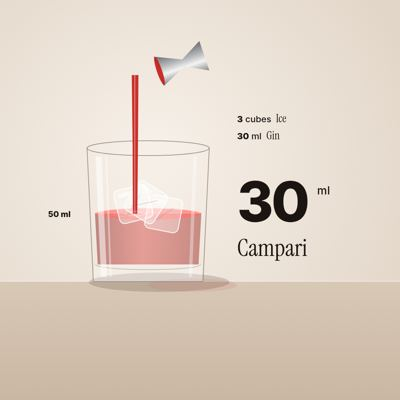
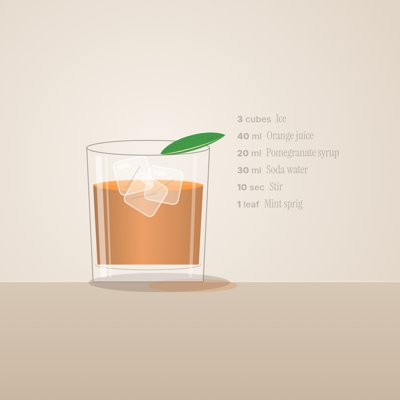
Motion elements batch 4 part 2: groups and hints for 6 more; invented defaults for the timeline and drink recipe
Claude-Session: https://claude.ai/code/session_01P9QQ1ksSfAx6b9HF7mrN8g

diff --git a/studiomania/library/motion/r/027/reel.html b/studiomania/library/motion/r/027/reel.html
@@ -2,23 +2,15 @@
 <script>
 // #27 (عنصر: خط زمني) Editorial timeline, any events. One typeface (Inter). The camera travels along one line;
 // each moment has the same rhythm: year lands (hit) → event → why it mattered. Illustrations are drawn in code.
+const G1 = "١ · العنوان", G2 = "٢ · المحطات", G3 = "٣ · النهاية", GC = "الألوان";
 const PR = M.params({
-  title: { label: "العنوان", kind: "text", def: "75 years of AI" },
-  subtitle: { label: "تحت العنوان", kind: "text", def: "in thirteen moments that changed its course." },
-  events: { label: "المحطات (كل سطر: السنة | الحدث | ليه مهم)", kind: "lines", def: [
-    "1950 | Alan Turing publishes “Computing Machinery and Intelligence” | It reframed “can machines think?” as a test you could actually run.",
-    "1956 | The Dartmouth workshop names the field “artificial intelligence” | AI became a research discipline with a name, a goal and funding.",
-    "1958 | Frank Rosenblatt builds the Perceptron | The first machine that learned from examples instead of rules.",
-    "1986 | Rumelhart, Hinton and Williams popularise backpropagation | Multi-layer networks could finally be trained.",
-    "1997 | IBM's Deep Blue beats Garry Kasparov at chess | A machine beat the world champion under tournament conditions.",
-    "2012 | AlexNet wins the ImageNet challenge | GPUs + data + deep nets: the start of the deep-learning boom.",
-    "2017 | Google researchers introduce the Transformer | “Attention Is All You Need” — the architecture behind today's models.",
-    "2022 | ChatGPT launches to the public | AI went from labs to a hundred million people in about two months.",
-    "2025 | Models see, speak, write code and act as agents | AI is now a tool people use every day — and the questions are bigger."] },
-  ending: { label: "الجملة في الآخر", kind: "text", def: "And it's still being written." },
-  ink: { label: "لون الكلام", kind: "color", role: "ink", def: "#111214" },
-  accent: { label: "اللون المميز", kind: "color", role: "accent", def: "#2f5cff" },
-  bg: { label: "الخلفية", kind: "color", role: "bg", def: "#f4f2ed" },
+  title: { label: "العنوان", kind: "text", def: "حكاية ٤٠ سنة", group: G1, max: 26 },
+  subtitle: { label: "تحت العنوان", kind: "text", def: "في ٦ محطات غيّرت كل حاجة.", group: G1, max: 50 },
+  events: { label: "المحطات (كل سطر: السنة | الحدث | ليه مهم)", kind: "lines", def: ["١٩٨٥ | فتحنا أول فرن في شارع صغير | كان فرن واحد وعيلة واحدة وحلم كبير.", "١٩٩٦ | أول فرع تاني في الحي اللي جنبنا | الناس بقت تيجي من بعيد علشان الرغيف.", "٢٠٠٤ | ابتدينا نعمل حلويات الأعياد | السفرة بقت تستنانا في كل موسم.", "٢٠١٣ | فتحنا ورشة تدريب للخبازين | الصنعة بقت تتعلم بدل ما تضيع.", "٢٠٢٠ | التوصيل لحد البيت | الرغيف السخن بقى يوصل في ٢٠ دقيقة.", "٢٠٢٥ | ١٢ فرع ونفس الوصفة | كبرنا… والطعم زي ما هو."], group: G2, max: 120, hint: "كل سطر: السنة | اللي حصل | ليه كان مهم. لحد ١٤ محطة، والفيديو بيطول مع عددهم." },
+  ending: { label: "الجملة في الآخر", kind: "text", def: "والحكاية لسه بتتكتب.", group: G3, max: 40 },
+  ink: { label: "لون الكلام", kind: "color", role: "ink", def: "#111214", group: GC },
+  accent: { label: "اللون المميز", kind: "color", role: "accent", def: "#2f5cff", group: GC, hint: "لون السنة والرسومات المميزة." },
+  bg: { label: "الخلفية", kind: "color", role: "bg", def: "#f4f2ed", group: GC },
 });
 const ARTS = ["perceptron", "backprop", "imagenet", "transformer", "chat", "now", "dartmouth", "winter"];
 const MOM = PR.events.slice(0, 14).map((l, i) => { const [y = "", w = "", why = ""] = String(l).split("|").map((z) => z.trim()); return [y, w, why, ARTS[i % ARTS.length]]; });
@@ -26,6 +18,11 @@ if (!MOM.length) MOM.push(["", "", "", "now"]);
 const RTL = M.isAr(PR.title + MOM.map((m) => m[1]).join(""));
 const HOOK = 5, PER = MOM.length > 8 ? 7 : 7.6, SPACE = 1500, INK = PR.ink, PAPER = PR.bg, ACC = PR.accent, MUTE = "#8b8a86";
 const DUR = HOOK + MOM.length * PER + 4.8;
+M.meta({
+  story: "خط زمني تحريري: الكاميرا ماشية على خط واحد، وكل محطة ليها نفس الإيقاع: السنة بتخبط ← اللي حصل ← ليه كان مهم، مع رسمة صغيرة بالكود. بيمشي من اليمين للعربي ومن الشمال للإنجليزي.",
+  scenes: [{ name: G1, t0: 0, t1: HOOK, about: "العنوان" }, { name: G2, t0: HOOK, t1: DUR - 4.8, about: "المحطات واحدة ورا التانية" }, { name: G3, t0: DUR - 4.8, t1: DUR, about: "الجملة الأخيرة" }],
+  tips: ["مناسب لحكاية البراند وتاريخ الشركة وإنجازات السنة.", "كل محطة جملة قصيرة + ليه كانت مهمة.", "من ٤ لـ ٨ محطات بيبقى طول مريح."],
+});
 M.reel({
   W: 1920, H: 1080, DUR, bg: PAPER,
   fonts: { I4: ["inter400.ttf", "400"], I6: ["inter600.ttf", "600"], I8: ["inter800.ttf", "800"] },

diff --git a/studiomania/library/motion/r/009/reel.html b/studiomania/library/motion/r/009/reel.html
@@ -1,17 +1,23 @@
 <!doctype html><html><head><meta charset="utf-8"><script src="../../lib/core.js"></script></head><body>
 <script>
-// #9 (عنصر: وصفة مشروب خطوة بخطوة) Drink recipe — 30 s, 100 BPM, 1080×1080. Gin 30 ml, Campari 30 ml, sweet vermouth 30 ml, ice, stir, orange peel.
+// #9 (عنصر: وصفة مشروب خطوة بخطوة) Drink recipe — 30 s, 100 BPM, 1080×1080. Three liquids poured in proportion, ice, stir, garnish.
 const BPM = 100, B = 60 / BPM, BAR = B * 4;
+const G1 = "١ · الاسم", G2 = "٢ · المكونات", G3 = "٣ · التقليب والزينة", GC = "الألوان";
 const PR = M.params({
-  title: { label: "اسم المشروب", kind: "text", role: "product", def: "Negroni" },
-  sub: { label: "سطر تحت الاسم", kind: "text", def: "Equal parts · stirred · on the rocks" },
-  subEnd: { label: "السطر في الآخر", kind: "text", def: "Gin · Campari · Sweet vermouth — 1 : 1 : 1" },
-  ice: { label: "التلج (الاسم | الكمية | الوحدة)", kind: "text", def: "Ice | 3 | cubes" },
-  liquids: { label: "٣ سوايل (الاسم | الكمية | الوحدة | اللون | الشفافية 0-1)", kind: "lines", def: ["Gin | 30 | ml | #ecf0ec | .22", "Campari | 30 | ml | #c41c16 | .9", "Sweet vermouth | 30 | ml | #6e1e0c | .92"] },
-  stir: { label: "التقليب (الاسم | الكمية | الوحدة)", kind: "text", def: "Stir | 20 | sec" },
-  garnish: { label: "الزينة (الاسم | الكمية | الوحدة)", kind: "text", def: "Orange peel | 1 | twist" },
-  garnishColor: { label: "لون الزينة", kind: "color", def: "#f28a1e" },
-  unit: { label: "وحدة القياس جنب الكوباية", kind: "text", def: "ml" },
+  title: { label: "اسم المشروب", kind: "text", role: "product", def: "Sunset Fizz", group: G1, max: 14 },
+  sub: { label: "سطر تحت الاسم", kind: "text", def: "Fresh · bubbly · over ice", group: G1, max: 40 },
+  subEnd: { label: "السطر في الآخر", kind: "text", def: "Orange · Pomegranate · Soda — 2 : 1 : 1", group: G3, max: 50 },
+  ice: { label: "التلج (الاسم | الكمية | الوحدة)", kind: "text", def: "Ice | 3 | cubes", group: G2, max: 24, hint: "الاسم | الكمية | الوحدة." },
+  liquids: { label: "٣ سوايل (الاسم | الكمية | الوحدة | اللون | الشفافية 0-1)", kind: "lines", def: ["Orange juice | 40 | ml | #f6a21a | .9", "Pomegranate syrup | 20 | ml | #b0122e | .95", "Soda water | 30 | ml | #e8f2f4 | .2"], group: G2, max: 40, hint: "٣ سوايل: الاسم | الكمية | الوحدة | اللون | الشفافية (0 لـ 1). الكوباية بتتملي بنسبتهم." },
+  stir: { label: "التقليب (الاسم | الكمية | الوحدة)", kind: "text", def: "Stir | 10 | sec", group: G3, max: 24 },
+  garnish: { label: "الزينة (الاسم | الكمية | الوحدة)", kind: "text", def: "Mint sprig | 1 | leaf", group: G3, max: 28 },
+  garnishColor: { label: "لون الزينة", kind: "color", def: "#3f9b4a", group: GC },
+  unit: { label: "وحدة القياس جنب الكوباية", kind: "text", def: "ml", group: G2, max: 4 },
+});
+M.meta({
+  story: "وصفة مشروب خطوة بخطوة على الإيقاع: التلج بيقع، وكل سايل بيتصب بلونه ونصيبه في الكوباية، وبعدين التقليب والزينة، والوصفة كلها في سطر في الآخر.",
+  scenes: [{ name: G1, t0: 0, t1: 2.4, about: "اسم المشروب" }, { name: G2, t0: 2.4, t1: 19.2, about: "التلج والسوايل" }, { name: G3, t0: 19.2, t1: 30, about: "التقليب والزينة والوصفة" }],
+  tips: ["مناسب للكافيهات ومحلات العصير والمشروبات.", "الكميات أرقام علشان الكوباية تتملي صح.", "لون كل سايل بيفرق: خليه قريب من الحقيقة."],
 });
 const esc = (v) => String(v ?? "").replace(/[&<>"]/g, (c) => ({ "&": "&amp;", "<": "&lt;", ">": "&gt;", '"': "&quot;" })[c]);
 const part = (l) => String(l || "").split("|").map((z) => z.trim());
@@ -19,7 +25,7 @@ const hex = (h, a) => { const m = String(h || "").replace("#", ""); const n = pa
 const st = (l, t0, t1, extra = {}) => { const [name = "", amt = "", unit = ""] = part(l); return { name, amt, unit, t0, t1, ...extra }; };
 const STEPS = [
   st(PR.ice, BAR * 1, BAR * 2),
-  ...[0, 1, 2].map((i) => { const [n, a, u, c, o] = part(PR.liquids[i]); const v = parseFloat(a) || 30; return st(`${n || ""} | ${a || ""} | ${u || ""}`, BAR * (2 + i * 2), BAR * (4 + i * 2), { col: hex(c || "#cccccc", Math.max(.05, Math.min(1, parseFloat(o) || .85))), vol: v }); }),
+  ...[0, 1, 2].map((i) => { const [n, a, u, c, o] = part(PR.liquids[i]); const v = parseFloat(String(a || "").replace(/[٠-٩]/g, (d) => "٠١٢٣٤٥٦٧٨٩".indexOf(d))) || 30; return st(`${n || ""} | ${a || ""} | ${u || ""}`, BAR * (2 + i * 2), BAR * (4 + i * 2), { col: hex(c || "#cccccc", Math.max(.05, Math.min(1, parseFloat(o) || .85))), vol: v }); }),
   st(PR.stir, BAR * 8, BAR * 10),
   st(PR.garnish, BAR * 10, BAR * 11),
 ];

diff --git a/studiomania/library/motion/r/065/reel.html b/studiomania/library/motion/r/065/reel.html
@@ -5,20 +5,26 @@
 // 4–6 the red circle pushes through the border and morphs (circle → square → star) · 6–8 the poster peels off the wall in 3D, its back is the event info
 // 8–10 data/UI: the info builds as a table/timeline · 10–12 the grid modules start to slide out · 12–14 strongest: every module flies out on the beat
 // 14–15 end title "OUT OF FRAME" → modules snap back: the still poster of frame one.
+const G1 = "١ · البوستر", G2 = "٢ · معلومات الحدث", G3 = "٣ · النهاية", GC = "الألوان";
 const PR = M.params({
-  header: { label: "اسم الحدث فوق البوستر", kind: "text", role: "brand", def: "POSTER CLUB" },
-  issue: { label: "الرقم جنبه", kind: "text", def: "NO. 07" },
-  big: { label: "الكلمة الكبيرة (بتخرج من البرواز)", kind: "text", def: "BREAK" },
-  info: { label: "معلومات الحدث (٣ سطور: العنوان | القيمة)", kind: "lines", def: ["WHAT | Poster Club", "WHEN | Fri 20:00", "WHERE | Hall 3"] },
-  seatsLabel: { label: "عنوان العدد", kind: "text", def: "SEATS" },
-  seats: { label: "المحجوز", kind: "text", def: "240" },
-  total: { label: "من", kind: "text", def: "300" },
-  end1: { label: "النهاية (سطر ١)", kind: "text", def: "OUT OF" },
-  end2: { label: "النهاية (سطر ٢، ملوّن)", kind: "text", def: "FRAME." },
-  cream: { label: "لون البوستر", kind: "color", role: "bg", def: "#f1ebde" },
-  red: { label: "اللون المميز", kind: "color", role: "accent", def: "#e2321f" },
-  ink: { label: "لون الكلام", kind: "color", role: "ink", def: "#121212" },
-  wall: { label: "الحيطة", kind: "color", role: "dark", def: "#2a2a2c" },
+  header: { label: "اسم الحدث فوق البوستر", kind: "text", role: "brand", def: "POSTER CLUB", group: G1, max: 18 },
+  issue: { label: "الرقم جنبه", kind: "text", def: "NO. 07", group: G1, max: 8 },
+  big: { label: "الكلمة الكبيرة (بتخرج من البرواز)", kind: "text", def: "BREAK", group: G1, max: 7, hint: "كلمة واحدة كبيرة: حروفها بتخرج من البرواز." },
+  info: { label: "معلومات الحدث (٣ سطور: العنوان | القيمة)", kind: "lines", def: ["WHAT | Poster Club", "WHEN | Fri 20:00", "WHERE | Hall 3"], group: G2, max: 24, hint: "٣ سطور: العنوان | القيمة (إيه، إمتى، فين)." },
+  seatsLabel: { label: "عنوان العدد", kind: "text", def: "SEATS", group: G2, max: 10 },
+  seats: { label: "المحجوز", kind: "text", def: "240", group: G2, max: 5 },
+  total: { label: "من", kind: "text", def: "300", group: G2, max: 5 },
+  end1: { label: "النهاية (سطر ١)", kind: "text", def: "OUT OF", group: G3, max: 8 },
+  end2: { label: "النهاية (سطر ٢، ملوّن)", kind: "text", def: "FRAME.", group: G3, max: 8 },
+  cream: { label: "لون البوستر", kind: "color", role: "bg", def: "#f1ebde", group: GC },
+  red: { label: "اللون المميز", kind: "color", role: "accent", def: "#e2321f", group: GC },
+  ink: { label: "لون الكلام", kind: "color", role: "ink", def: "#121212", group: GC },
+  wall: { label: "الحيطة", kind: "color", role: "dark", def: "#2a2a2c", group: GC },
+});
+M.meta({
+  story: "بوستر حدث بيكسر البرواز: بوستر سويسري ثابت، حروفه بتطلع برّه الإطار، والدايرة الحمرا بتزق الحافة وتتحول أشكال، والبوستر بيتقشر من الحيطة 3D وضهره فيه معلومات الحدث، والموديولات بتطير على الإيقاع وترجع.",
+  scenes: [{ name: G1, t0: 0, t1: 6, about: "البوستر والحروف بتخرج" }, { name: G2, t0: 6, t1: 12, about: "ضهر البوستر ومعلومات الحدث" }, { name: G3, t0: 12, t1: 15, about: "الموديولات بتطير والنهاية" }],
+  tips: ["مناسب للحفلات والورش والمعارض وأي حدث بمواعيد.", "الكلمة الكبيرة قصيرة: ٤-٦ حروف.", "عدد المحجوز بيعمل إحساس إن الأماكن بتخلص."],
 });
 const B = .5, CREAM = PR.cream, RED = PR.red, INK = PR.ink, WALL = PR.wall;
 const BIG = String(PR.big).trim(), BAR = M.isAr(BIG), UNITS = (BAR ? BIG.split(/\s+/) : [...BIG.replace(/\s+/g, "")]).slice(0, 6);

diff --git a/studiomania/library/motion/r/072/reel.html b/studiomania/library/motion/r/072/reel.html
@@ -5,17 +5,23 @@
 // 0–2 hook question · 2–6 kinetic type: day names spin on a reel, slowing · 6–10 morph: 7 dots → calendar grid → clock face
 // 10–14 2D→3D: a day-die (cube) rolls one face per beat · 14–18 UI: a calendar month builds, today ringed · 18–22 a sun arcs over the week strip
 // 22–28 strongest: SUNDAY lands letter by letter, one per beat · 28–30 end title → the question again (frame one).
+const G1 = "١ · السؤال", G2 = "٢ · عجلة الأيام", G3 = "٣ · اليوم", GC = "الألوان";
 const PR = M.params({
-  date: { label: "التاريخ (سنة-شهر-يوم)", kind: "text", def: "2026-10-11" },
-  q1: { label: "السؤال (سطر ١)", kind: "text", def: "WHAT DAY" },
-  q2: { label: "السؤال (سطر ٢)", kind: "text", def: "IS IT?" },
-  spin: { label: "تحت عجلة الأيام", kind: "text", def: "SPIN THE WEEK" },
-  strong: { label: "جملة مع اسم اليوم", kind: "text", def: "ALL DAY. ALL OF IT." },
-  final: { label: "الجملة في الآخر ({day} = اسم اليوم)", kind: "text", def: "IT'S {day}." },
-  cream: { label: "الخلفية", kind: "color", role: "bg", def: "#f4efe4" },
-  ink: { label: "لون الكلام", kind: "color", role: "ink", def: "#141414" },
-  ora: { label: "اللون المميز", kind: "color", role: "accent", def: "#ff6b2b" },
-  blue: { label: "اللون التاني", kind: "color", role: "accent2", def: "#2d5bff" },
+  date: { label: "التاريخ (سنة-شهر-يوم)", kind: "text", def: "2026-10-11", group: G1, max: 10, hint: "اكتبها كده: 2026-10-11 — اسم اليوم بيطلع لوحده." },
+  q1: { label: "السؤال (سطر ١)", kind: "text", def: "WHAT DAY", group: G1, max: 12 },
+  q2: { label: "السؤال (سطر ٢)", kind: "text", def: "IS IT?", group: G1, max: 12 },
+  spin: { label: "تحت عجلة الأيام", kind: "text", def: "SPIN THE WEEK", group: G2, max: 18 },
+  strong: { label: "جملة مع اسم اليوم", kind: "text", def: "ALL DAY. ALL OF IT.", group: G3, max: 24 },
+  final: { label: "الجملة في الآخر ({day} = اسم اليوم)", kind: "text", def: "IT'S {day}.", group: G3, max: 20, hint: "{day} بيتبدّل باسم اليوم." },
+  cream: { label: "الخلفية", kind: "color", role: "bg", def: "#f4efe4", group: GC },
+  ink: { label: "لون الكلام", kind: "color", role: "ink", def: "#141414", group: GC },
+  ora: { label: "اللون المميز", kind: "color", role: "accent", def: "#ff6b2b", group: GC },
+  blue: { label: "اللون التاني", kind: "color", role: "accent2", def: "#2d5bff", group: GC },
+});
+M.meta({
+  story: "إعلان عن تاريخ: «الأسبوع ماكينة قمار والنهارده الجاكبوت». أسامي الأيام بتلف على بكرة وتهدى، ونقط بتبقى نتيجة وساعة، ومكعب أيام بيتدحرج، ونتيجة الشهر واليوم متعلّم، وشمس فوق الأسبوع، واسم اليوم بينزل حرف حرف.",
+  scenes: [{ name: G1, t0: 0, t1: 2, about: "السؤال" }, { name: G2, t0: 2, t1: 22, about: "عجلة الأيام والنتيجة والمكعب" }, { name: G3, t0: 22, t1: 30, about: "اسم اليوم والجملة الأخيرة" }],
+  tips: ["مناسب لإعلان موعد افتتاح أو عرض أو إطلاق.", "اكتب التاريخ بالأرقام الإنجليزي علشان اليوم يتحسب صح.", "الجملة الأخيرة فيها {day} علشان اسم اليوم."],
 });
 const B = .5, CREAM = PR.cream, INK = PR.ink, ORA = PR.ora, BLUE = PR.blue;
 const AR = M.isAr(PR.q1 + PR.q2 + PR.final);

diff --git a/studiomania/library/motion/r/052/reel.html b/studiomania/library/motion/r/052/reel.html
@@ -3,16 +3,17 @@
 // #52 (عنصر: ميم POV طولي) Chaotic POV — "POV: you're the AI someone opens 47 times a day". 30 s, 1080×1920, 140 BPM.
 // Fast cuts on the beat, stacked captions, zoom punches; running joke: "make it pop" (the blob inflates more each time
 // until it literally pops). Payoff loops to the start: "ok perfect. now the same for tomorrow".
+const G1 = "الميم", GC = "الألوان";
 const PR = M.params({
-  pov: { label: "سطر الـ POV فوق", kind: "text", def: "POV: you're the AI they open all day" },
-  counter: { label: "العدّاد (مثلًا: requests today)", kind: "text", def: "requests today" },
+  pov: { label: "سطر الـ POV فوق", kind: "text", def: "POV: you're the AI they open all day", group: G1, max: 40, hint: "السطر اللي فوق طول الفيديو." },
+  counter: { label: "العدّاد (مثلًا: requests today)", kind: "text", def: "requests today", group: G1, max: 18, hint: "كلمة جنب العدّاد اللي بيزيد." },
   events: { label: "اللقطات (كل سطر: الطلب | رد الفعل الكبير | التعليق | درجة النفخ 0-9 اختياري)", kind: "lines", def: [
     "write me a poem | SURE! | me: finally, art", "shorter | OK | me: cut 3 lines", "longer | OK?? | me: put them back",
     "make it pop | POP | me: what is pop | 1", "more pop | POPPP | me: adding pop | 2", "less pop | pop | me: removing pop | .5",
     "make it sound like me | HI ME | me: who are you", "but smarter | BIG BRAIN | me: rude but ok", "now in Arabic | حاضر | me: يلا",
     "as a spreadsheet | =POEM() | me: cells. so many cells", "make it pop | POP!! | me: again?? | 3", "MORE | POP!!!! | me: it's getting big | 4.5",
-    "MORE POP | pls | me: please | 6", " | *POP* |  | 9", "ok perfect | THANK YOU | me: …i made a thing", "now the same for tomorrow | SURE! | me: (loads poem.exe)"] },
-  bubble: { label: "لون فقاعة الشات", kind: "color", role: "accent", def: "#0a84ff" },
+    "MORE POP | pls | me: please | 6", " | *POP* |  | 9", "ok perfect | THANK YOU | me: …i made a thing", "now the same for tomorrow | SURE! | me: (loads poem.exe)"], group: G1, max: 80, hint: "كل سطر لقطة: الطلب | رد الفعل الكبير | التعليق | درجة النفخ (اختياري). لحد ٢٤ لقطة، والفيديو بيطول معاهم." },
+  bubble: { label: "لون فقاعة الشات", kind: "color", role: "accent", def: "#0a84ff", group: GC },
 });
 const W = 1080, H = 1920, BPM = 140, B = 60 / BPM;
 const C = ["#ff3b30", "#ffd60a", "#30d158", "#0a84ff", "#bf5af2", "#ff9f0a", "#111111", "#f2f2f2"];
@@ -21,6 +22,11 @@ const EV = []; let _b = 0;
 PR.events.slice(0, 24).forEach((l) => { const [req = "", big = "", cap = "", pop = "0"] = String(l).split("|").map((z) => z.trim()); EV.push([_b, req, big, cap, parseFloat(pop) || 0]); _b += (req + cap).length > 26 ? 4 : 3; });
 if (!EV.length) EV.push([0, "", "", "", 0]);
 const DUR = Math.min(60, Math.max(6, (_b + 2) * B));
+M.meta({
+  story: "ميم POV طولي فوضوي: قطعات سريعة على الإيقاع، وكابشنز فوق بعض، وزووم، وإفيه متكرر (فقاعة بتتنفخ أكتر كل مرة لحد ما تفرقع)، والآخر بيرجع للأول.",
+  scenes: [{ name: G1, t0: 0, t1: DUR, about: "اللقطات ورا بعض على الإيقاع" }],
+  tips: ["الإفيه المتكرر هو سر الميم: نفس الطلب بيرجع أكبر.", "الطلب قصير ورد الفعل أقصر.", "خلي آخر لقطة ترجّع لأول واحدة."],
+});
 const ar = (s) => M.isAr(s);
 M.reel({
   W, H, DUR, bg: "#111",

diff --git a/studiomania/library/motion/r/149/reel.html b/studiomania/library/motion/r/149/reel.html
@@ -5,16 +5,22 @@
 // looks around and blinks · 6–9 2D→3D: the eye becomes an eyeball, a sphere of 100 dots that turns · 9–12 data: the dots drop into a
 // 10×10 grid and light up one by one, 1→100 · 12–15 end title: the dots run into one line under THANK YOU.
 // One typeface (Gabarito 800). Palette: electric blue, yellow, black + white. Camera: one slow push-in.
+const G1 = "١ · الرقم", G2 = "٢ · العين", G3 = "٣ · الشكر", GC = "الألوان";
 const P = M.params({
-  number: { label: "الرقم", kind: "text", def: "100" },
-  top: { label: "كلمة فوق الرقم", kind: "text", def: "FIRST" },
-  bottom: { label: "كلمة تحت الرقم", kind: "text", def: "USERS" },
-  line: { label: "جملة مع العين", kind: "text", def: "YOU SEE IT FIRST" },
-  thanks: { label: "الشكر في الآخر", kind: "text", def: "THANK YOU" },
-  handle: { label: "اسم الحساب أو البراند", kind: "text", role: "handle", def: "@EYEZONBOT" },
-  c1: { label: "اللون الأساسي", kind: "color", role: "accent", def: "#3d7bff" },
-  c2: { label: "اللون التاني", kind: "color", role: "accent2", def: "#ffd23f" },
-  bg: { label: "الخلفية", kind: "color", role: "dark", def: "#000000" },
+  number: { label: "الرقم", kind: "text", def: "100", group: G1, max: 5, hint: "عدد المتابعين أو العملاء: النقط بتكوّن الرقم ده." },
+  top: { label: "كلمة فوق الرقم", kind: "text", def: "FIRST", group: G1, max: 10 },
+  bottom: { label: "كلمة تحت الرقم", kind: "text", def: "USERS", group: G1, max: 10 },
+  line: { label: "جملة مع العين", kind: "text", def: "YOU SEE IT FIRST", group: G2, max: 22, hint: "جملة بتظهر مع العين." },
+  thanks: { label: "الشكر في الآخر", kind: "text", def: "THANK YOU", group: G3, max: 14 },
+  handle: { label: "اسم الحساب أو البراند", kind: "text", role: "handle", def: "@EYEZONBOT", group: G3, max: 20, hint: "اسم الحساب أو البراند تحت الشكر." },
+  c1: { label: "اللون الأساسي", kind: "color", role: "accent", def: "#3d7bff", group: GC },
+  c2: { label: "اللون التاني", kind: "color", role: "accent2", def: "#ffd23f", group: GC },
+  bg: { label: "الخلفية", kind: "color", role: "dark", def: "#000000", group: GC },
+});
+M.meta({
+  story: "شكر لأول N متابع: كل متابع نقطة، ونقطة واحدة بتتقسم لـ ١٠٠ بيكوّنوا الرقم، وبعدين بيبقوا عين بتبص وترمش، وكورة 3D من النقط، وشبكة بتنوّر نقطة نقطة، وفي الآخر بيجروا لخط واحد تحت الشكر.",
+  scenes: [{ name: G1, t0: 0, t1: 3, about: "النقط بتكوّن الرقم" }, { name: G2, t0: 3, t1: 12, about: "العين والكورة والشبكة" }, { name: G3, t0: 12, t1: 15, about: "الشكر والحساب" }],
+  tips: ["مناسب للاحتفال بعدد متابعين أو أول عملاء.", "الرقم لازم يكون حقيقي.", "الكلام قصير: كلمة فوق وكلمة تحت."],
 });
 const W = 1920, H = 1080, BLUE = P.c1, YEL = P.c2, BG = P.bg, N = 100;
 const NUM = String(P.number).trim() || "100", NUMV = parseInt(NUM.replace(/[^0-9]/g, ""), 10) || 100;

diff --git a/studiomania/docs/templates-review.md b/studiomania/docs/templates-review.md
@@ -101,12 +101,12 @@
 | ✅ | `026` | شوريل البراند |
 | ✅ | `119` | من فكرة لنتيجة في ١٠ ثواني |
 | ✅ | `055` | بروفايل في ١٥ ثانية |
-| ⬜ | `149` | شكر لأول N متابع |
-| ⬜ | `027` | خط زمني |
-| ⬜ | `065` | بوستر حدث |
-| ⬜ | `072` | إعلان عن تاريخ |
-| ⬜ | `009` | وصفة مشروب خطوة بخطوة |
-| ⬜ | `052` | ميم POV طولي |
+| ✅ | `149` | شكر لأول N متابع |
+| ✅ | `027` | خط زمني |
+| ✅ | `065` | بوستر حدث |
+| ✅ | `072` | إعلان عن تاريخ |
+| ✅ | `009` | وصفة مشروب خطوة بخطوة |
+| ✅ | `052` | ميم POV طولي |
 | ⬜ | `042` | كفاية تفكير (طولي) |
 | ⬜ | `226` | هوك الكورة والـ ١٢ دايرة |
 | ⬜ | `061` | تعريف بكلمات بتتبني |
